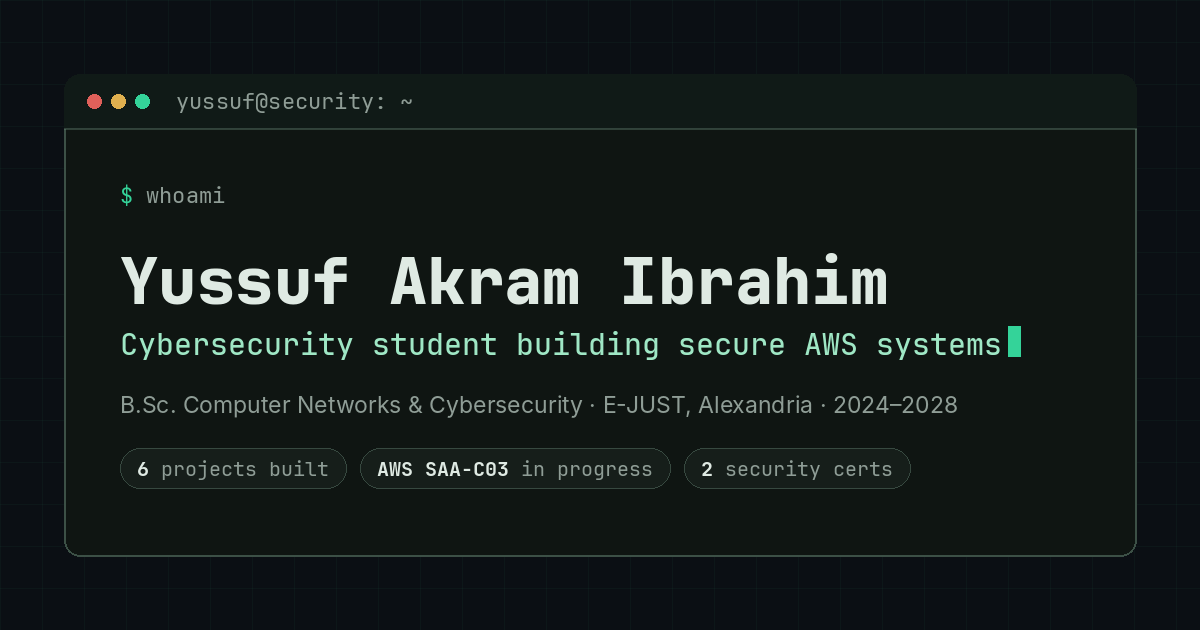
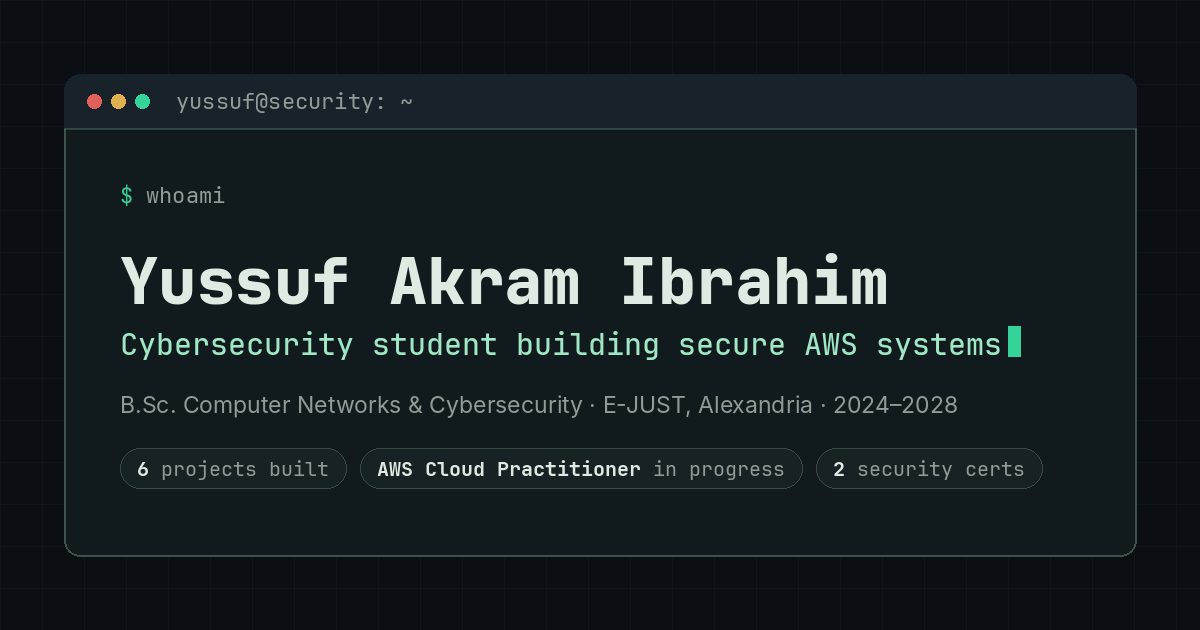
fix: target cert is Cloud Practitioner, not Solutions Architect
SAA-C03 appeared in four places, so changing only the roadmap entry would have
left the page contradicting itself. Updated the roadmap, the hero chip and the
skills "currently learning" line, and regenerated the social card, which had
"AWS SAA-C03 in progress" rendered into the image.

No exam code is stated, since the owner named the certification rather than a
specific version.

Changed region(s): [[0.3392, 0.7238, 0.8633, 0.7841]]

diff --git a/index.html b/index.html
@@ -1988,7 +1988,7 @@
               </p>
               <div class="stat-chips">
                 <span class="chip"><b>6</b> projects built</span>
-                <span class="chip">AWS <b>SAA-C03</b> in progress</span>
+                <span class="chip">AWS <b>Cloud Practitioner</b> in progress</span>
                 <span class="chip"><b>2</b> security certs completed</span>
               </div>
               <div class="hero-links cta-row">
@@ -2251,7 +2251,7 @@
           <div class="skill-footer">
             <div class="sf-block">
               <span class="sf-label">currently learning</span>
-              <span class="sf-items">Terraform (IaC) · Python boto3 · AWS SAA-C03</span>
+              <span class="sf-items">Terraform (IaC) · Python boto3 · AWS Cloud Practitioner</span>
             </div>
             <div class="sf-block">
               <span class="sf-label">practising</span>
@@ -2643,7 +2643,7 @@
             <li class="active">
               <span class="node" aria-hidden="true"></span>
               <span class="cname"
-                >AWS Certified Solutions Architect — Associate (SAA-C03)</span
+                >AWS Certified Cloud Practitioner</span
               >
               <span class="cissuer">Amazon Web Services</span>
               <span class="cmeta">in progress</span>
